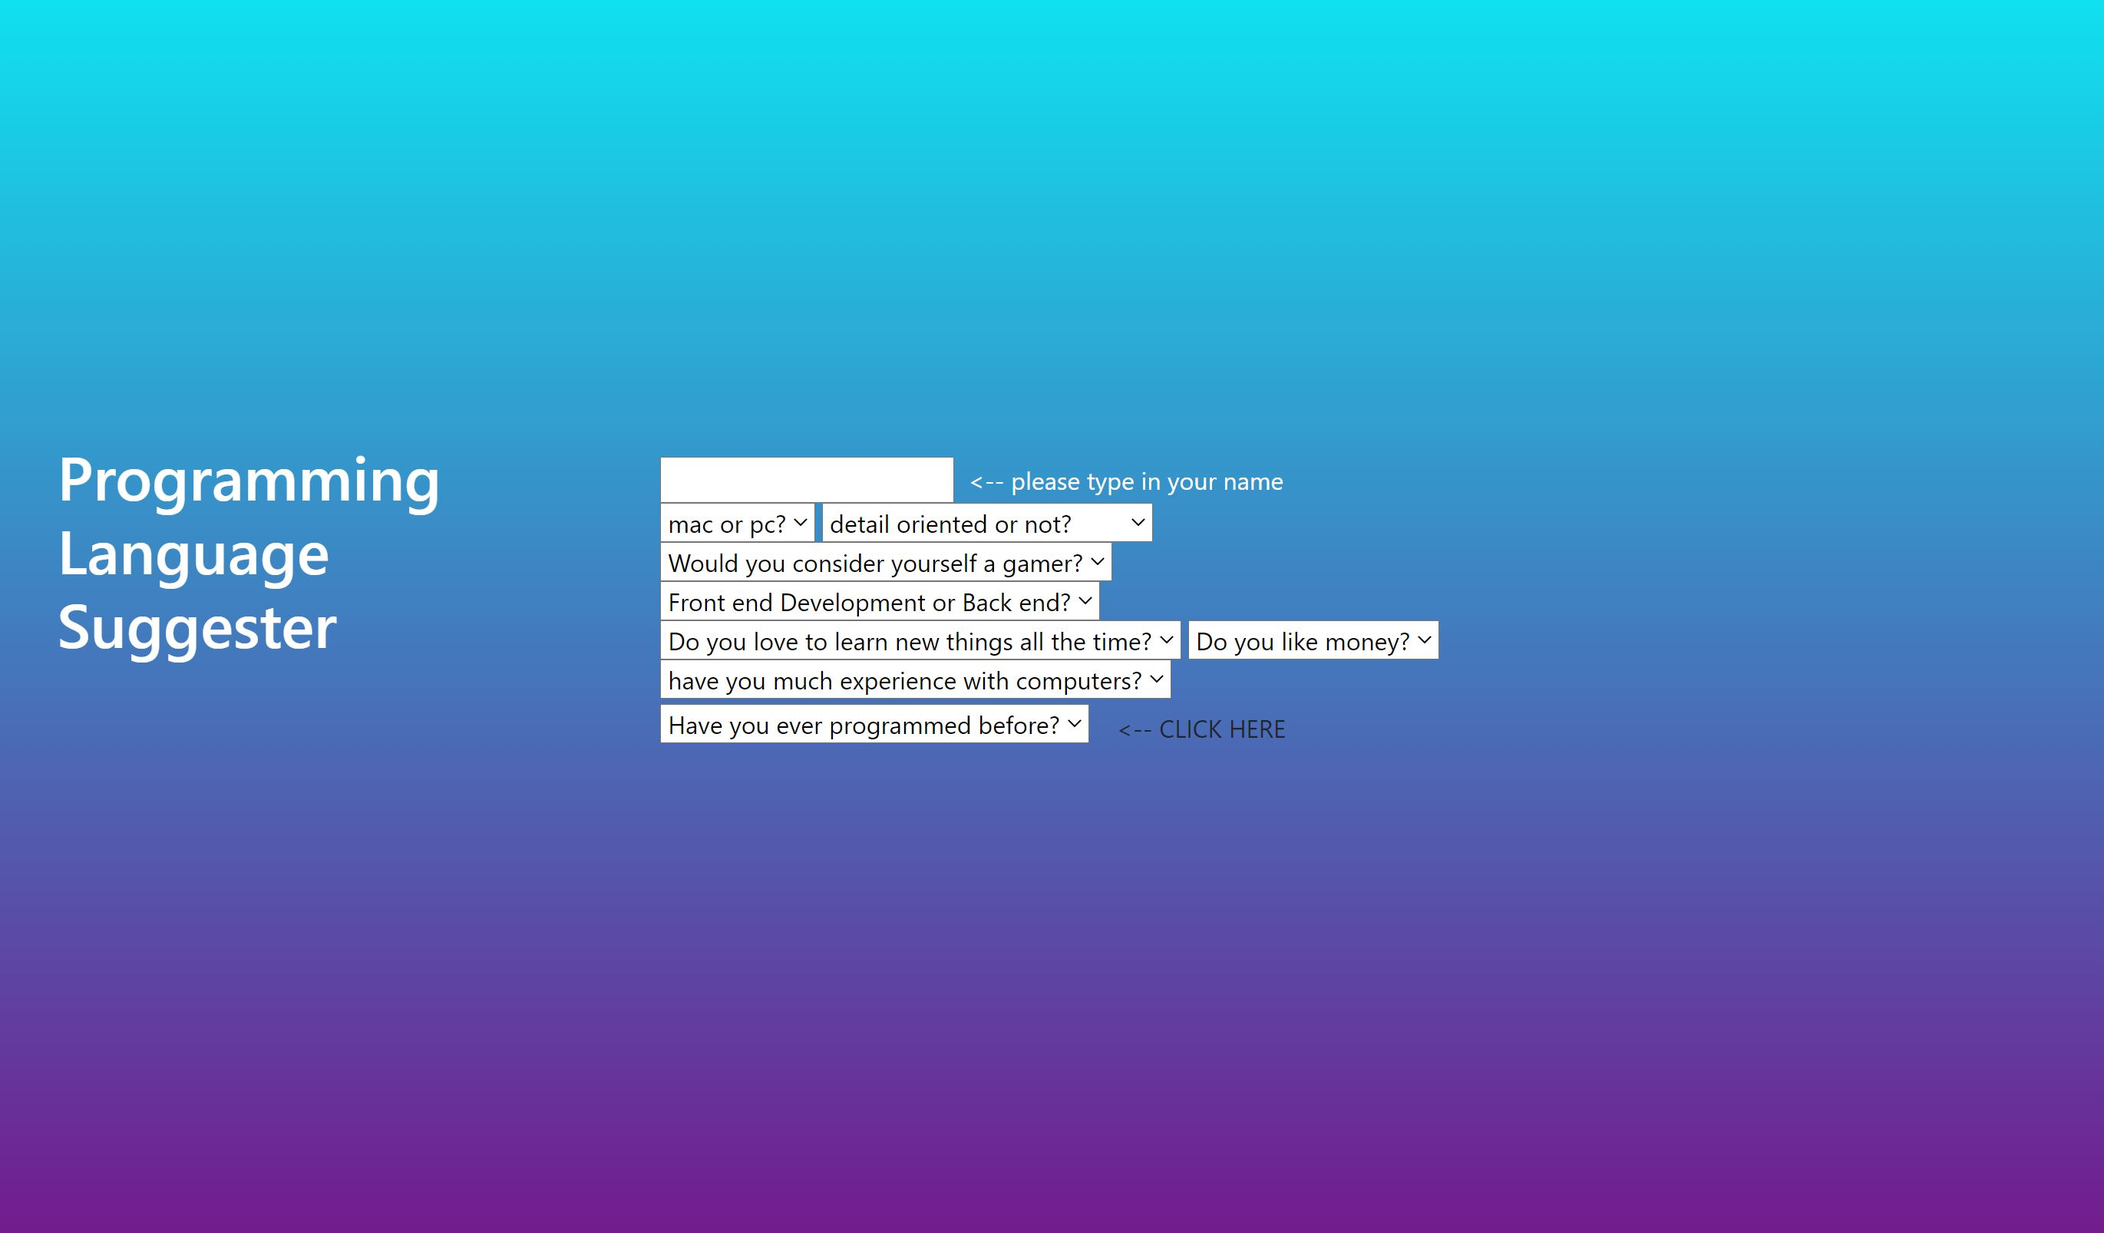
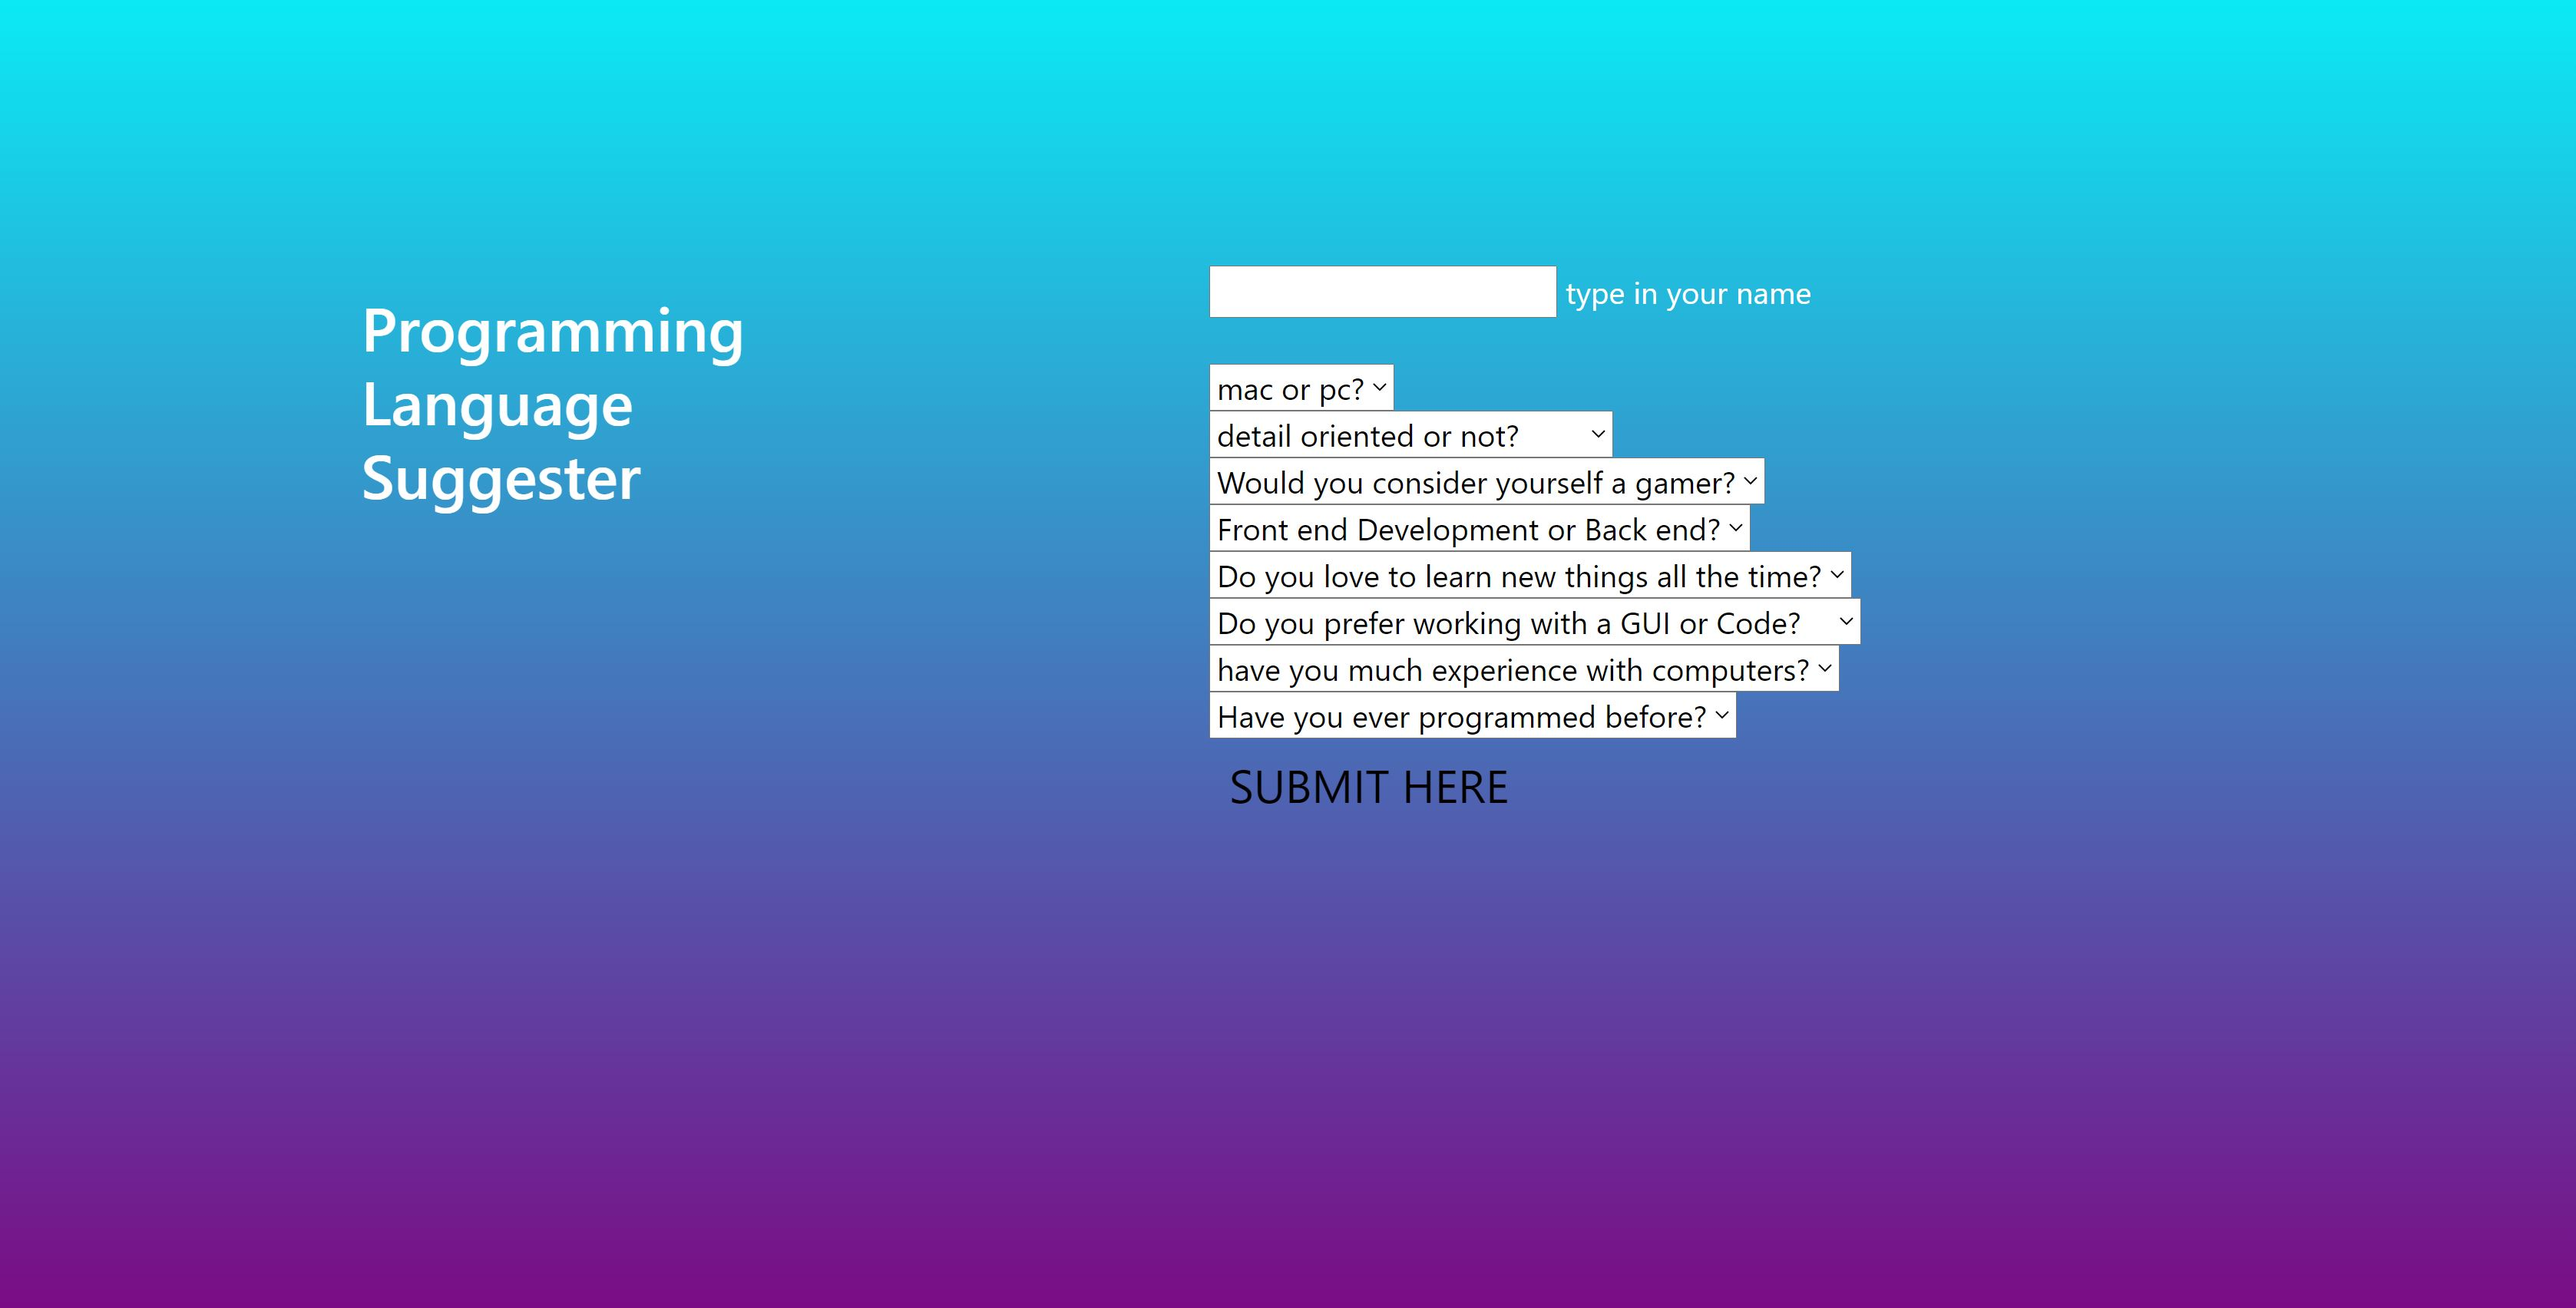
update branches

Changed region(s): [[0.3101, 0.2802, 0.7443, 0.6227], [0.031, 0.2179, 0.3101, 0.5604], [0.4652, 0.1868, 0.7132, 0.2491]]

diff --git a/css/styles.css b/css/styles.css
@@ -27,14 +27,13 @@ body   {
 }
 
 .output {
-  padding-top: 20%;
+  padding-top: 11%;
   display: none;
 }
 
 .container {
   display: grid;
   margin: 0%;
-  /* padding: 200px; */
 }
 
 .container > div {
@@ -78,8 +77,4 @@ body   {
   color: rgb(0, 0, 0);
   font-style: bold;
   font-size: 30px;
-}
-
-#nameOfPerson {
-  margin: px
 }

diff --git a/README.md b/README.md
@@ -55,11 +55,11 @@ email Brian Sturgis @ <sturujisu@gmail.com>
 * HTML
 * Bootstrap
 * CSS
+* Jquery
 * Visual Studio Code
 * Git
 * GitHub
 * coffee
-* patience
 * Adobe Photoshop
 * three.js
 
